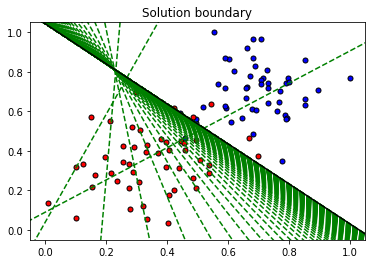
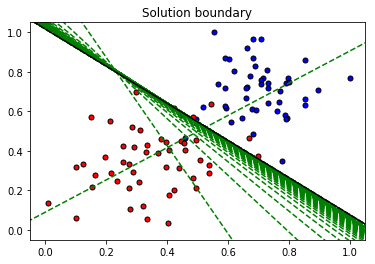
change deep learning gradient descent

diff --git a/2. Deep learning/GradientDescent/README.md b/2. Deep learning/GradientDescent/README.md
@@ -91,7 +91,7 @@ This function will help us iterate the gradient descent algorithm through all th
 ```python
 np.random.seed(44)
 
-epochs = 500
+epochs = 3000
 learnrate = 0.01
 
 def train(features, targets, epochs, learnrate, graph_lines=False):
@@ -158,40 +158,40 @@ train(X, y, epochs, learnrate, True)
     Train loss:  0.7135845195381634
     Accuracy:  0.4
     
-    ========== Epoch 50 ==========
-    Train loss:  0.42525543433469976
-    Accuracy:  0.93
-    
-    ========== Epoch 100 ==========
-    Train loss:  0.3235511002047678
-    Accuracy:  0.94
-    
-    ========== Epoch 150 ==========
-    Train loss:  0.27385265997143987
-    Accuracy:  0.94
-    
-    ========== Epoch 200 ==========
-    Train loss:  0.2445014537977157
-    Accuracy:  0.94
-    
-    ========== Epoch 250 ==========
-    Train loss:  0.2250924876995558
-    Accuracy:  0.93
-    
     ========== Epoch 300 ==========
     Train loss:  0.21128008952075578
     Accuracy:  0.93
     
-    ========== Epoch 350 ==========
-    Train loss:  0.20093476659919737
-    Accuracy:  0.93
+    ========== Epoch 600 ==========
+    Train loss:  0.17307306304520367
+    Accuracy:  0.92
     
-    ========== Epoch 400 ==========
-    Train loss:  0.19288993789458375
-    Accuracy:  0.93
+    ========== Epoch 900 ==========
+    Train loss:  0.15901909628351343
+    Accuracy:  0.92
     
-    ========== Epoch 450 ==========
-    Train loss:  0.18645214238850516
+    ========== Epoch 1200 ==========
+    Train loss:  0.15180181789772024
+    Accuracy:  0.92
+    
+    ========== Epoch 1500 ==========
+    Train loss:  0.14747516697028767
+    Accuracy:  0.92
+    
+    ========== Epoch 1800 ==========
+    Train loss:  0.14463571914648873
+    Accuracy:  0.92
+    
+    ========== Epoch 2100 ==========
+    Train loss:  0.14265786622333862
+    Accuracy:  0.92
+    
+    ========== Epoch 2400 ==========
+    Train loss:  0.14122077866896052
+    Accuracy:  0.92
+    
+    ========== Epoch 2700 ==========
+    Train loss:  0.1401432775759585
     Accuracy:  0.92
 
 

diff --git a/README.md b/README.md
@@ -30,15 +30,17 @@
 
 [PolynomialRegression](https://github.com/dylan-shao/ML-DS-Udacity_Data_Scientist_Nanodegree/blob/master/1.%20Supervised%20Learning%20Projects/PolynomialRegression)
 
-[Regularization_FeatureScaling](https://github.com/dylan-shao/ML-DS-Udacity_Data_Scientist_Nanodegree/blob/master/1.%20Supervised%20Learning%20Projects/Regularization_FeatureScaling)
-
 [SVM](https://github.com/dylan-shao/ML-DS-Udacity_Data_Scientist_Nanodegree/blob/master/1.%20Supervised%20Learning%20Projects/SVM)
+
+[Regularization_FeatureScaling](https://github.com/dylan-shao/ML-DS-Udacity_Data_Scientist_Nanodegree/blob/master/1.%20Supervised%20Learning%20Projects/Regularization_FeatureScaling)
 
 [Spam_&_Ensembles](https://github.com/dylan-shao/ML-DS-Udacity_Data_Scientist_Nanodegree/blob/master/1.%20Supervised%20Learning%20Projects/Spam_%26_Ensembles)
 
 [Spam_Classifier](https://github.com/dylan-shao/ML-DS-Udacity_Data_Scientist_Nanodegree/blob/master/1.%20Supervised%20Learning%20Projects/Spam_Classifier)
 
 ## 2. Deep learning
+
+[BackPropagation](https://github.com/dylan-shao/ML-DS-Udacity_Data_Scientist_Nanodegree/blob/master/2.%20Deep%20learning/BackPropagation)
 
 [GradientDescent](https://github.com/dylan-shao/ML-DS-Udacity_Data_Scientist_Nanodegree/blob/master/2.%20Deep%20learning/GradientDescent)
 

diff --git a/2. Deep learning/BackPropagation/README.md b/2. Deep learning/BackPropagation/README.md
@@ -1,0 +1,52 @@
+
+
+```python
+import numpy as np
+
+
+def sigmoid(x):
+    """
+    Calculate sigmoid
+    """
+    return 1 / (1 + np.exp(-x))
+
+
+x = np.array([0.5, 0.1, -0.2])
+target = 0.6
+learnrate = 0.5
+
+weights_input_hidden = np.array([[0.5, -0.6],
+                                 [0.1, -0.2],
+                                 [0.1, 0.7]])
+
+weights_hidden_output = np.array([0.1, -0.3])
+
+## Forward pass
+hidden_layer_input = np.dot(x, weights_input_hidden)
+hidden_layer_output = sigmoid(hidden_layer_input)
+
+output_layer_in = np.dot(hidden_layer_output, weights_hidden_output)
+output = sigmoid(output_layer_in)
+
+## Backwards pass
+## TODO: Calculate output error
+error = None
+
+# TODO: Calculate error term for output layer
+output_error_term = None
+
+# TODO: Calculate error term for hidden layer
+hidden_error_term = None
+
+# TODO: Calculate change in weights for hidden layer to output layer
+delta_w_h_o = None
+
+# TODO: Calculate change in weights for input layer to hidden layer
+delta_w_i_h = None
+
+print('Change in weights for hidden layer to output layer:')
+print(delta_w_h_o)
+print('Change in weights for input layer to hidden layer:')
+print(delta_w_i_h)
+
+```
